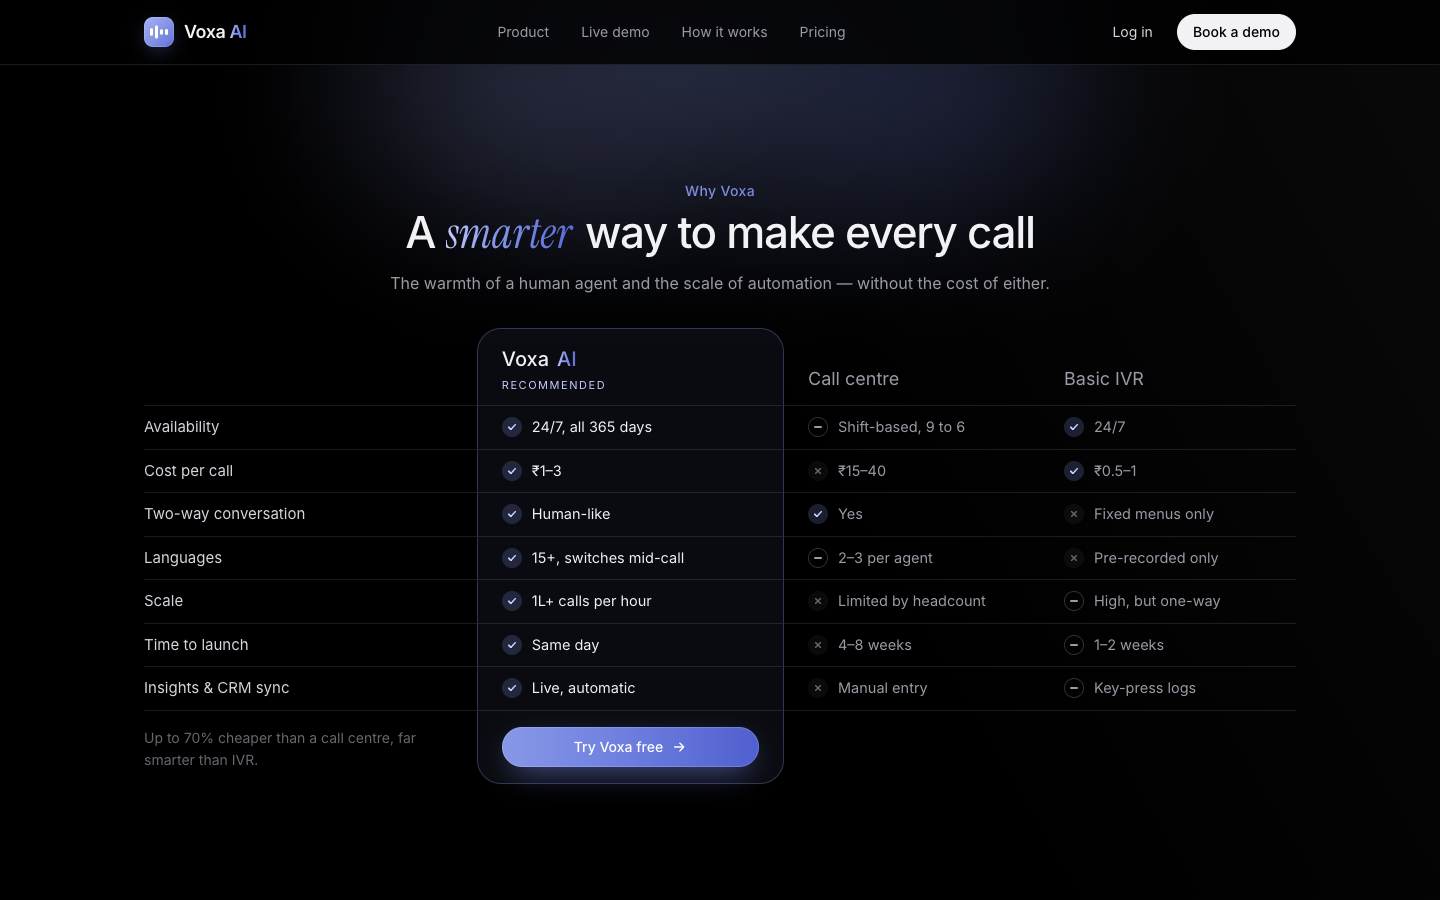
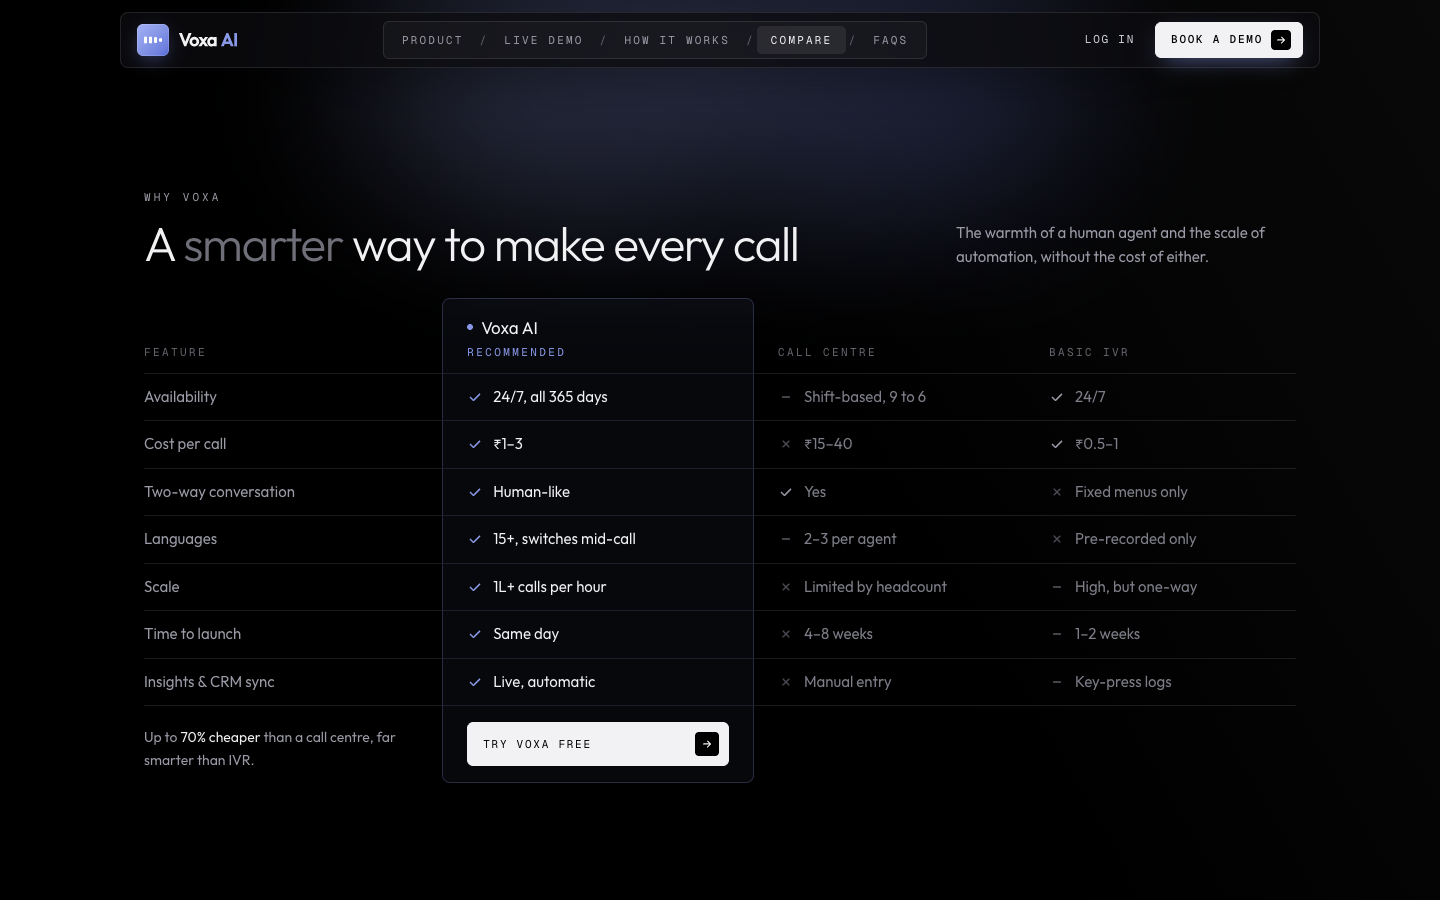
feat: enhance responsiveness and scrolling behavior in HowItWorks component

diff --git a/components/Comparison.tsx b/components/Comparison.tsx
@@ -6,7 +6,7 @@ type Mark = "yes" | "partial" | "no";
 type Cell = { mark: Mark; text: string };
 type Row = { feature: string; voxa: Cell; centre: Cell; ivr: Cell };
 
-// Typical figures for the Indian market — adjust to your own pricing and claims.
+// Typical figures for the Indian market; adjust to your own pricing and claims.
 const rows: Row[] = [
   {
     feature: "Availability",
@@ -57,82 +57,80 @@ const others = [
   { id: "ivr", label: "Basic IVR" },
 ] as const;
 
-function MarkIcon({ mark }: { mark: Mark }) {
+function MarkIcon({ mark, accent }: { mark: Mark; accent?: boolean }) {
   if (mark === "yes")
     return (
-      <span className="grid size-5 shrink-0 place-items-center rounded-full bg-brand/20 text-brand-light">
-        <svg viewBox="0 0 24 24" aria-label="Yes" className="size-3 fill-none stroke-current stroke-[3] [stroke-linecap:round] [stroke-linejoin:round]">
-          <path d="m5 12 5 5 9-10" />
-        </svg>
-      </span>
+      <svg viewBox="0 0 24 24" aria-label="Yes" className={`mt-[3px] size-4 shrink-0 fill-none stroke-[2.4] [stroke-linecap:round] [stroke-linejoin:round] ${accent ? "stroke-brand" : "stroke-[#9a9ba6]"}`}>
+        <path d="m5 12.5 4.5 4.5L19 7.5" />
+      </svg>
     );
   if (mark === "partial")
     return (
-      <span className="grid size-5 shrink-0 place-items-center rounded-full border border-line-strong" aria-label="Partly">
-        <span className="h-[2px] w-2 rounded-full bg-muted" />
-      </span>
+      <svg viewBox="0 0 24 24" aria-label="Partly" className="mt-[3px] size-4 shrink-0 fill-none stroke-[#5d5e66] stroke-[2.4] [stroke-linecap:round]">
+        <path d="M7 12h10" />
+      </svg>
     );
   return (
-    <span className="grid size-5 shrink-0 place-items-center rounded-full bg-white/[0.04] text-faint">
-      <svg viewBox="0 0 24 24" aria-label="No" className="size-2.5 fill-none stroke-current stroke-[3] [stroke-linecap:round]">
-        <path d="M6 6l12 12M18 6 6 18" />
-      </svg>
-    </span>
+    <svg viewBox="0 0 24 24" aria-label="No" className="mt-[3px] size-4 shrink-0 fill-none stroke-[#4a4b52] stroke-[2.2] [stroke-linecap:round]">
+      <path d="M7.5 7.5l9 9M16.5 7.5l-9 9" />
+    </svg>
   );
 }
+
+const cols = "grid grid-cols-[minmax(0,0.9fr)_minmax(0,1.1fr)_minmax(0,1fr)] md:grid-cols-[minmax(0,1.1fr)_minmax(0,1.15fr)_minmax(0,1fr)_minmax(0,1fr)]";
+const mono = "font-mono text-[11px] tracking-[0.22em] uppercase";
+// The Voxa column is one continuous soft panel: side borders on every cell, rounded at top and bottom
+const voxaCell = "border-x border-brand/25 bg-brand/[0.05] px-4 md:px-6";
 
 export default function Comparison() {
   // On phones only one competitor fits beside Voxa; let the visitor pick which
   const [vs, setVs] = useState<(typeof others)[number]["id"]>("centre");
-
-  const otherCell = (id: (typeof others)[number]["id"]) =>
-    `${id === vs ? "flex" : "hidden"} md:flex`;
+  const show = (id: (typeof others)[number]["id"]) => `${id === vs ? "flex" : "hidden"} md:flex`;
 
   return (
-    <section id="compare" className="mx-auto flex max-w-[1200px] flex-col justify-center px-4 py-16 sm:px-6 md:min-h-[calc(100svh-72px)] md:py-6">
-      <div data-reveal className="mx-auto max-w-[720px] text-center">
-        <p className="font-mono text-[11px] tracking-[0.28em] text-muted uppercase">Why Voxa</p>
-        <h2 className="mt-2 text-[clamp(28px,3.6vw,44px)] leading-[1.08] font-light tracking-[-0.03em] text-balance">
-          A <span className="text-[#6e6f78]">smarter</span> way to make every call
-        </h2>
-        <p className="mt-3 text-base leading-relaxed text-balance text-muted">
-          The warmth of a human agent and the scale of automation — without the cost of either.
+    <section id="compare" className="mx-auto flex max-w-[1200px] flex-col justify-center px-4 py-20 sm:px-6 md:min-h-[calc(100svh-72px)] md:py-6">
+      <div data-reveal className="flex flex-col gap-6 md:flex-row md:items-end md:justify-between">
+        <div>
+          <p className="font-mono text-[11px] tracking-[0.28em] text-muted uppercase">Why Voxa</p>
+          <h2 className="mt-3 text-[clamp(30px,4vw,48px)] leading-[1.08] font-light tracking-[-0.03em] text-balance">
+            A <span className="text-[#6e6f78]">smarter</span> way to make every call
+          </h2>
+        </div>
+        <p className="max-w-[340px] text-[15px] leading-relaxed text-muted">
+          The warmth of a human agent and the scale of automation, without the cost of either.
         </p>
       </div>
 
       {/* Mobile: choose what to compare against */}
-      <div className="mt-10 flex justify-center md:hidden">
-        <div role="tablist" aria-label="Compare Voxa with" className="flex gap-1 rounded-md border border-line p-1">
-          {others.map((o) => (
-            <button
-              key={o.id}
-              role="tab"
-              aria-selected={vs === o.id}
-              onClick={() => setVs(o.id)}
-              className={`rounded-md px-4 py-1.5 text-sm transition-colors ${vs === o.id ? "bg-white/[0.08] text-fg" : "text-muted"}`}
-            >
-              vs {o.label}
-            </button>
-          ))}
-        </div>
+      <div role="tablist" aria-label="Compare Voxa with" className="mt-10 flex gap-6 border-b border-line md:hidden">
+        {others.map((o) => (
+          <button
+            key={o.id}
+            role="tab"
+            aria-selected={vs === o.id}
+            onClick={() => setVs(o.id)}
+            className={`-mb-px border-b pb-3 ${mono} transition-colors ${vs === o.id ? "border-fg text-fg" : "border-transparent text-faint"}`}
+          >
+            vs {o.label}
+          </button>
+        ))}
       </div>
 
-      <div role="table" data-stagger aria-label="Voxa compared with call centres and IVR" className="mt-8">
+      <div role="table" data-stagger aria-label="Voxa compared with call centres and IVR" className="mt-8 md:mt-7">
         {/* Header */}
-        <div role="row" className="grid grid-cols-[minmax(0,0.85fr)_minmax(0,1fr)_minmax(0,1fr)] md:grid-cols-[minmax(0,1.3fr)_minmax(0,1.2fr)_minmax(0,1fr)_minmax(0,1fr)]">
-          <div role="columnheader" className="hidden md:block" />
-          <div role="columnheader" className="sr-only md:hidden">Feature</div>
-          <div
-            role="columnheader"
-            className="col-start-2 rounded-t-lg border-x border-t border-brand/30 bg-brand/[0.07] px-3 pt-4 pb-3 md:col-start-auto md:px-6"
-          >
-            <span className="inline-flex items-center gap-2 text-lg font-medium md:text-xl">
-              Voxa <span className="text-gradient">AI</span>
+        <div role="row" className={cols}>
+          <div role="columnheader" className={`${mono} flex items-end pb-3 text-faint`}>
+            Feature
+          </div>
+          <div role="columnheader" className={`${voxaCell} rounded-t-lg border-t pt-4 pb-3`}>
+            <span className="flex items-center gap-2 text-[17px] font-normal text-fg">
+              <span className="size-1.5 rounded-full bg-brand" />
+              Voxa AI
             </span>
-            <span className="mt-1 block text-[11px] tracking-[0.14em] text-brand-light uppercase">Recommended</span>
+            <span className={`mt-1 block ${mono} text-[10px] text-brand`}>Recommended</span>
           </div>
           {others.map((o) => (
-            <div key={o.id} role="columnheader" className={`${otherCell(o.id)} flex-col justify-end px-3 pb-3 text-base text-muted md:px-6 md:text-lg`}>
+            <div key={o.id} role="columnheader" className={`${show(o.id)} items-end px-4 pb-3 ${mono} text-faint md:px-6`}>
               {o.label}
             </div>
           ))}
@@ -140,45 +138,48 @@ export default function Comparison() {
 
         {/* Rows */}
         {rows.map((r) => (
-          <div key={r.feature} role="row" className="grid grid-cols-[minmax(0,0.85fr)_minmax(0,1fr)_minmax(0,1fr)] md:grid-cols-[minmax(0,1.3fr)_minmax(0,1.2fr)_minmax(0,1fr)_minmax(0,1fr)]">
-            <div role="rowheader" className="flex items-center border-t border-line py-3.5 pr-2 text-[13px] text-body md:py-2.5 md:text-[15px]">
+          <div key={r.feature} role="row" className={cols}>
+            <div role="rowheader" className="flex items-start border-t border-line py-4 pr-3 text-[14px] text-muted md:py-3 md:text-[15px]">
               {r.feature}
             </div>
-            <div role="cell" className="flex items-start gap-2 border-x border-t border-x-brand/30 border-t-line bg-brand/[0.07] px-3 py-3.5 md:gap-2.5 md:items-center md:px-6 md:py-2.5">
-              <MarkIcon mark={r.voxa.mark} />
-              <span className="text-[13px] leading-snug text-fg md:text-[14.5px]">{r.voxa.text}</span>
+            <div role="cell" className={`${voxaCell} flex gap-2.5 border-t border-t-brand/15 py-4 text-[14px] text-fg md:py-3 md:text-[15px]`}>
+              <MarkIcon mark={r.voxa.mark} accent />
+              {r.voxa.text}
             </div>
             {others.map((o) => {
               const cell = r[o.id];
               return (
-                <div key={o.id} role="cell" className={`${otherCell(o.id)} items-start gap-2 border-t border-line px-3 py-3.5 md:items-center md:gap-2.5 md:px-6 md:py-2.5`}>
+                <div key={o.id} role="cell" className={`${show(o.id)} gap-2.5 border-t border-line px-4 py-4 text-[14px] text-[#7d7e88] md:px-6 md:py-3 md:text-[15px]`}>
                   <MarkIcon mark={cell.mark} />
-                  <span className="text-[13px] leading-snug text-muted md:text-[14.5px]">{cell.text}</span>
+                  {cell.text}
                 </div>
               );
             })}
           </div>
         ))}
 
-        {/* Footer row with CTA */}
-        <div role="row" className="grid grid-cols-[minmax(0,0.85fr)_minmax(0,1fr)_minmax(0,1fr)] md:grid-cols-[minmax(0,1.3fr)_minmax(0,1.2fr)_minmax(0,1fr)_minmax(0,1fr)]">
-          <div role="cell" className="border-t border-line pt-4 pr-3 text-[13px] leading-relaxed text-faint md:text-sm">
-            Up to 70% cheaper than a call centre, far smarter than IVR.
+        {/* Footer row with CTA inside the Voxa column */}
+        <div role="row" className={cols}>
+          <div role="cell" className="border-t border-line pt-5 pr-3 text-[14px] leading-relaxed text-muted">
+            Up to <span className="text-fg">70% cheaper</span> than a call centre, far smarter than IVR.
           </div>
-          <div role="cell" className="rounded-b-lg border-x border-b border-t border-brand/30 border-t-line bg-brand/[0.07] px-3 py-4 md:px-6">
+          <div role="cell" className={`${voxaCell} rounded-b-lg border-t border-b border-t-brand/15 py-4`}>
             <a
-              data-magnetic
               href="#demo"
-              className="group inline-flex w-full items-center justify-center gap-2 rounded-md bg-gradient-deep px-3 py-2.5 text-[13px] font-medium whitespace-nowrap sm:text-sm text-white shadow-[inset_0_0_0_1px_rgb(255_255_255/0.16),0_10px_30px_-10px_rgb(111_128_224/0.8)] transition-transform hover:-translate-y-px"
+              data-magnetic
+              className="group flex w-full items-center justify-center gap-2 rounded-md bg-fg px-2 py-2.5 font-mono text-[10px] tracking-[0.12em] whitespace-nowrap text-bg uppercase sm:justify-between sm:pr-2.5 sm:pl-4 sm:text-[11px] sm:tracking-[0.16em] transition-colors hover:bg-white"
             >
-              Try Voxa free
-              <svg viewBox="0 0 24 24" aria-hidden className="hidden size-4 fill-none stroke-current stroke-2 [stroke-linecap:round] [stroke-linejoin:round] transition-transform group-hover:translate-x-[3px] sm:block">
-                <path d="M5 12h14M13 6l6 6-6 6" />
-              </svg>
+              <span className="sm:hidden">Try free</span>
+              <span className="hidden sm:inline">Try Voxa free</span>
+              <span className="hidden size-6 place-items-center rounded-[4px] bg-bg text-fg transition-transform group-hover:translate-x-0.5 sm:grid">
+                <svg viewBox="0 0 24 24" aria-hidden className="size-3 fill-none stroke-current stroke-[2.5] [stroke-linecap:round] [stroke-linejoin:round]">
+                  <path d="M5 12h14M13 6l6 6-6 6" />
+                </svg>
+              </span>
             </a>
           </div>
           {others.map((o) => (
-            <div key={o.id} role="cell" className={`${otherCell(o.id)} border-t border-line`} />
+            <div key={o.id} role="cell" className={`${show(o.id)} border-t border-line`} />
           ))}
         </div>
       </div>

diff --git a/components/HowItWorks.tsx b/components/HowItWorks.tsx
@@ -1,6 +1,6 @@
 "use client";
 
-import { useEffect, useState } from "react";
+import { useEffect, useRef, useState } from "react";
 
 const STEP_MS = 3200;
 
@@ -91,12 +91,57 @@ function Visual({ kind, on }: { kind: (typeof steps)[number]["visual"]; on: bool
 export default function HowItWorks() {
   const [active, setActive] = useState(0);
   const [paused, setPaused] = useState(false);
+  const [mobile, setMobile] = useState(false);
+  const [fill, setFill] = useState(0); // 0–1, how far the vertical line is drawn on phones
+  const [span, setSpan] = useState(0); // px distance from the first dot to the last
+  const listRef = useRef<HTMLOListElement>(null);
+  const nodeRefs = useRef<(HTMLSpanElement | null)[]>([]);
 
   useEffect(() => {
-    if (paused || window.matchMedia("(prefers-reduced-motion: reduce)").matches) return;
+    const mq = window.matchMedia("(max-width: 767px)");
+    const update = () => setMobile(mq.matches);
+    update();
+    mq.addEventListener("change", update);
+    return () => mq.removeEventListener("change", update);
+  }, []);
+
+  // Desktop: steps cycle on a timer (hover pauses)
+  useEffect(() => {
+    if (mobile || paused || window.matchMedia("(prefers-reduced-motion: reduce)").matches) return;
     const id = setInterval(() => setActive((a) => (a + 1) % steps.length), STEP_MS);
     return () => clearInterval(id);
-  }, [paused]);
+  }, [paused, mobile]);
+
+  // Phones: the line follows the scroll; a step lights up when its dot passes the middle of the screen
+  useEffect(() => {
+    if (!mobile) return;
+    let raf = 0;
+    const onScroll = () => {
+      cancelAnimationFrame(raf);
+      raf = requestAnimationFrame(() => {
+        const list = listRef.current;
+        if (!list) return;
+        const mid = window.innerHeight * 0.55;
+        const first = nodeRefs.current[0]?.getBoundingClientRect().top ?? 0;
+        const last = nodeRefs.current[steps.length - 1]?.getBoundingClientRect().top ?? 1;
+        setSpan(last - first);
+        setFill(Math.min(1, Math.max(0, (mid - first) / (last - first))));
+        let idx = 0;
+        nodeRefs.current.forEach((n, i) => {
+          if (n && n.getBoundingClientRect().top <= mid) idx = i;
+        });
+        setActive(idx);
+      });
+    };
+    onScroll();
+    window.addEventListener("scroll", onScroll, { passive: true });
+    window.addEventListener("resize", onScroll);
+    return () => {
+      cancelAnimationFrame(raf);
+      window.removeEventListener("scroll", onScroll);
+      window.removeEventListener("resize", onScroll);
+    };
+  }, [mobile]);
 
   const progress = active / (steps.length - 1);
 
@@ -113,6 +158,7 @@ export default function HowItWorks() {
       </div>
 
       <ol
+        ref={listRef}
         data-stagger
         className="relative mt-16 grid gap-10 md:mt-20 md:grid-cols-4 md:gap-8"
         onMouseLeave={() => setPaused(false)}
@@ -124,11 +170,11 @@ export default function HowItWorks() {
           className="absolute top-[7px] left-[12.5%] hidden h-px bg-[linear-gradient(90deg,#c3cbff,#8898e7,#6f80e0)] transition-[width] duration-700 ease-out md:block"
           style={{ width: `${progress * 75}%` }}
         />
-        <span aria-hidden className="absolute top-2 bottom-2 left-[7px] w-px bg-line md:hidden" />
+        <span aria-hidden className="absolute top-2 left-[7px] w-px bg-line md:hidden" style={{ height: span ? `${span}px` : undefined }} />
         <span
           aria-hidden
-          className="absolute top-2 left-[7px] w-px bg-[linear-gradient(180deg,#c3cbff,#8898e7,#6f80e0)] transition-[height] duration-700 ease-out md:hidden"
-          style={{ height: `calc(${progress * 100}% - ${progress * 16}px)` }}
+          className="absolute top-2 left-[7px] w-px bg-[linear-gradient(180deg,#c3cbff,#8898e7,#6f80e0)] md:hidden"
+          style={{ height: `${span * fill}px` }}
         />
 
         {steps.map((s, i) => {
@@ -139,6 +185,7 @@ export default function HowItWorks() {
               key={s.title}
               className="relative pl-10 md:pl-0 md:text-center"
               onMouseEnter={() => {
+                if (mobile) return;
                 setActive(i);
                 setPaused(true);
               }}
@@ -146,6 +193,9 @@ export default function HowItWorks() {
               {/* Node */}
               <span
                 aria-hidden
+                ref={(el) => {
+                  nodeRefs.current[i] = el;
+                }}
                 className="absolute top-0 left-0 grid size-[15px] place-items-center md:relative md:mx-auto"
               >
                 {on && <span className="absolute inset-0 rounded-full bg-brand animate-ring" />}
